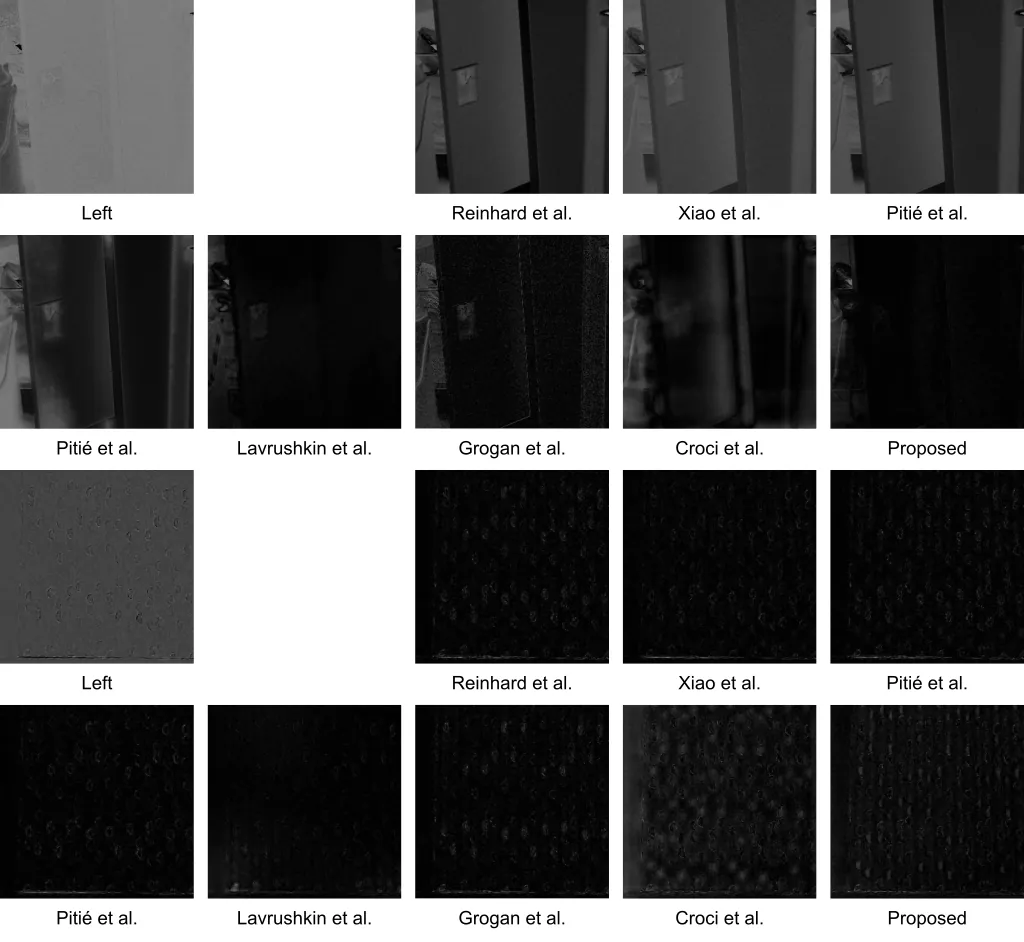
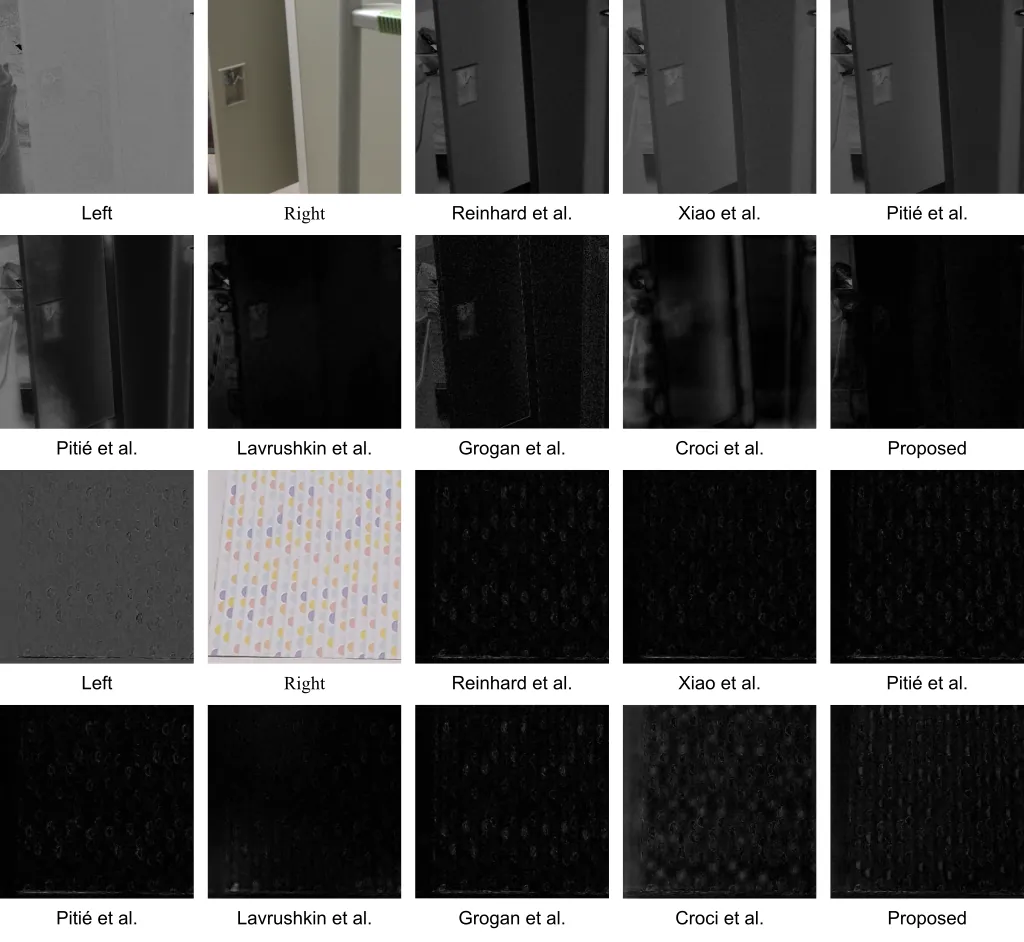
fixup! fixup! Update README

Changed region(s): [[0.1875, 0.4926, 0.4062, 0.7389], [0.1875, 0.0, 0.4062, 0.2463]]

diff --git a/README.md b/README.md
@@ -50,7 +50,7 @@ Given an image pair or a video sequence, our code supports generating color corr
 Below you can see normalized absolute difference between ground truth and method result.
 
 <p align="center"><img src="graphics/methods-comparison-diff.webp" alt="Color-Mismatch-Correction Methods Comparison"></p>
-<p align="center"><i>Normalized absolute difference between ground truth and method result. The first stereopair is from the artificial dataset; the second is from the real-world dataset.</i></p>
+<p align="center"><i>Normalized absolute difference between left ground truth and left corrected view. Right view left unchanged. The first stereopair is from the artificial dataset; the second is from the real-world dataset.</i></p>
 
 ## Datasets
 
